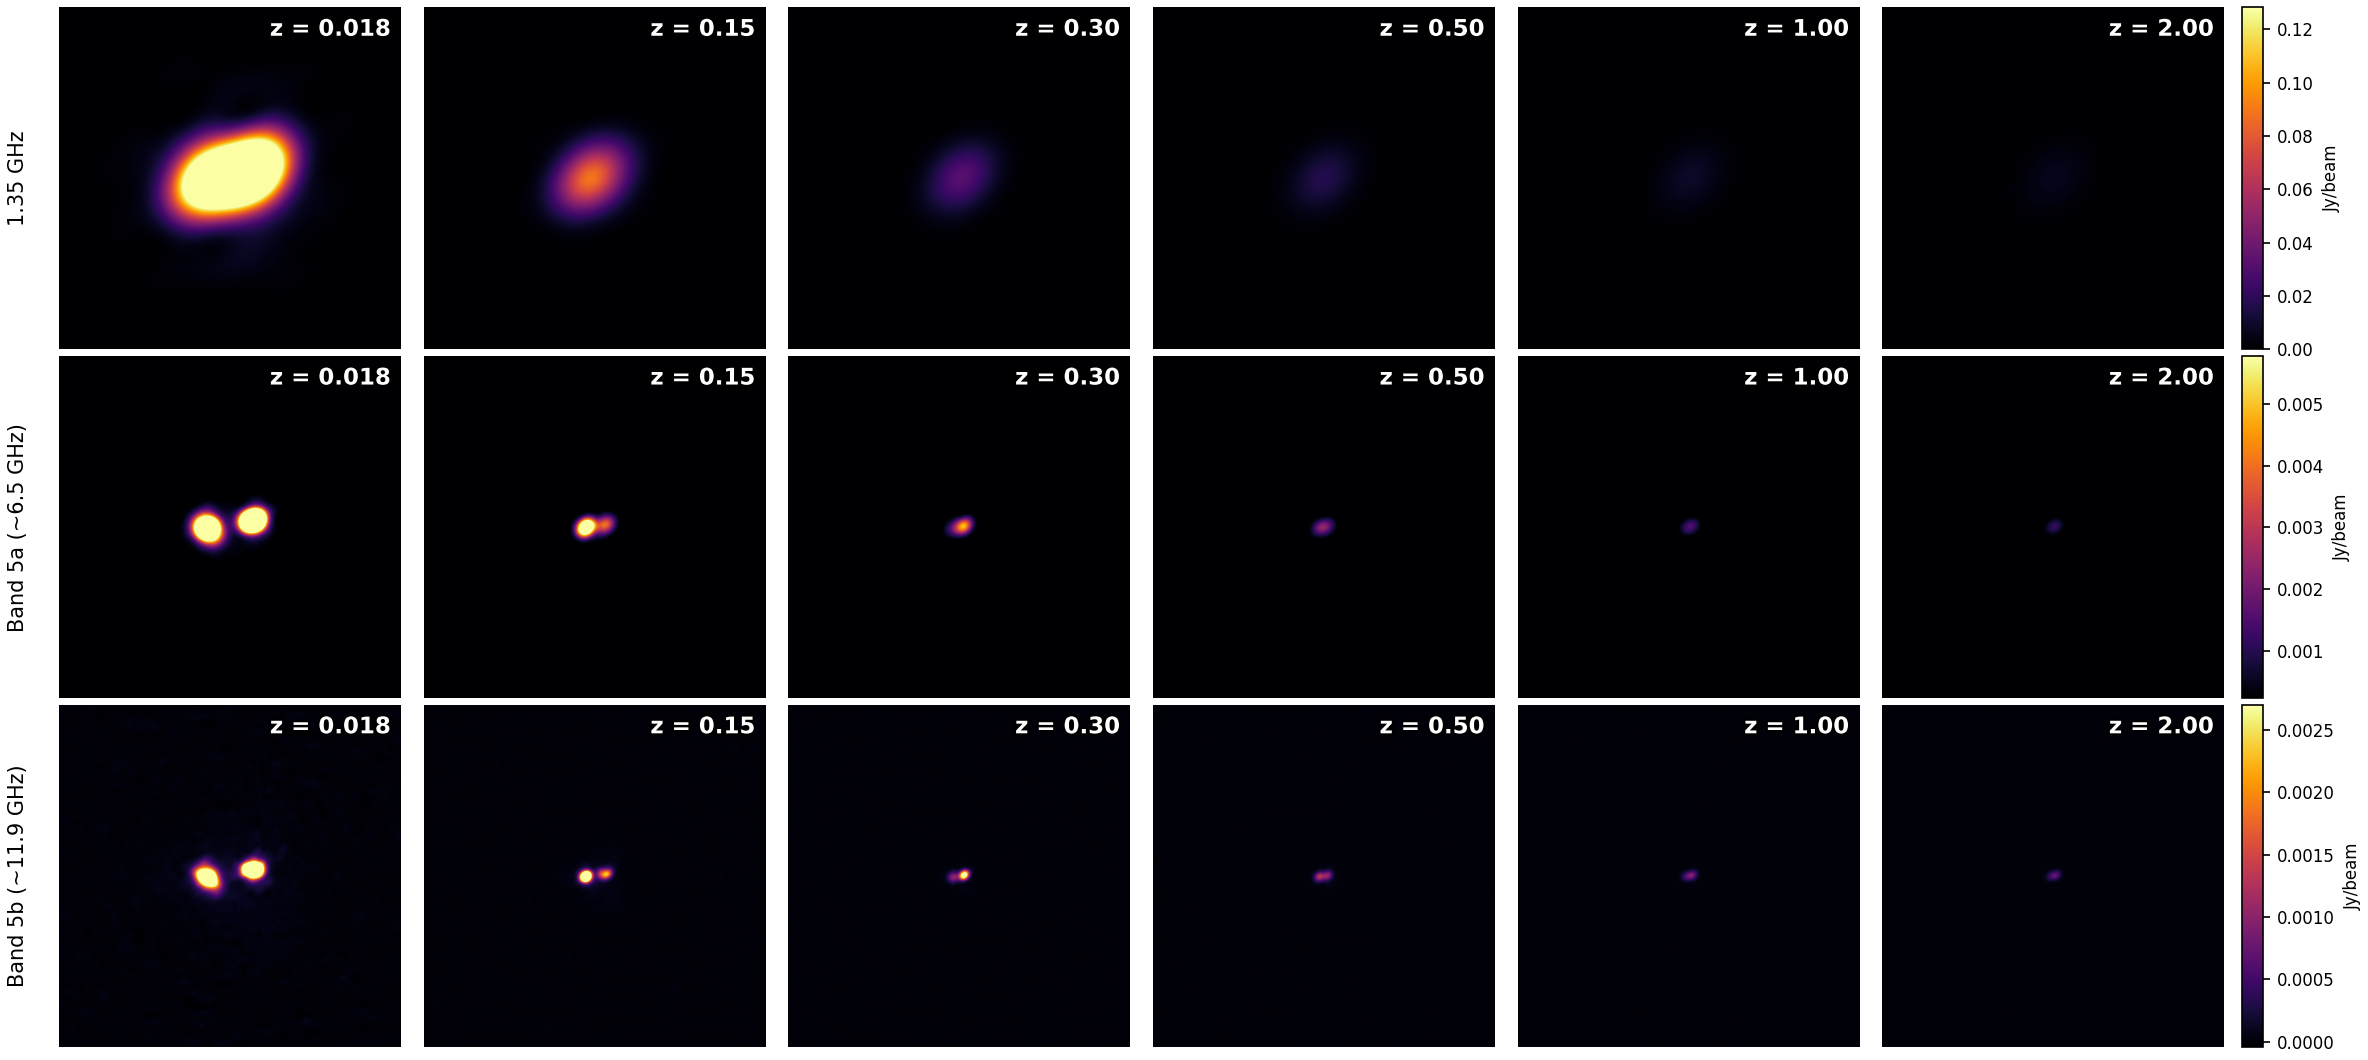
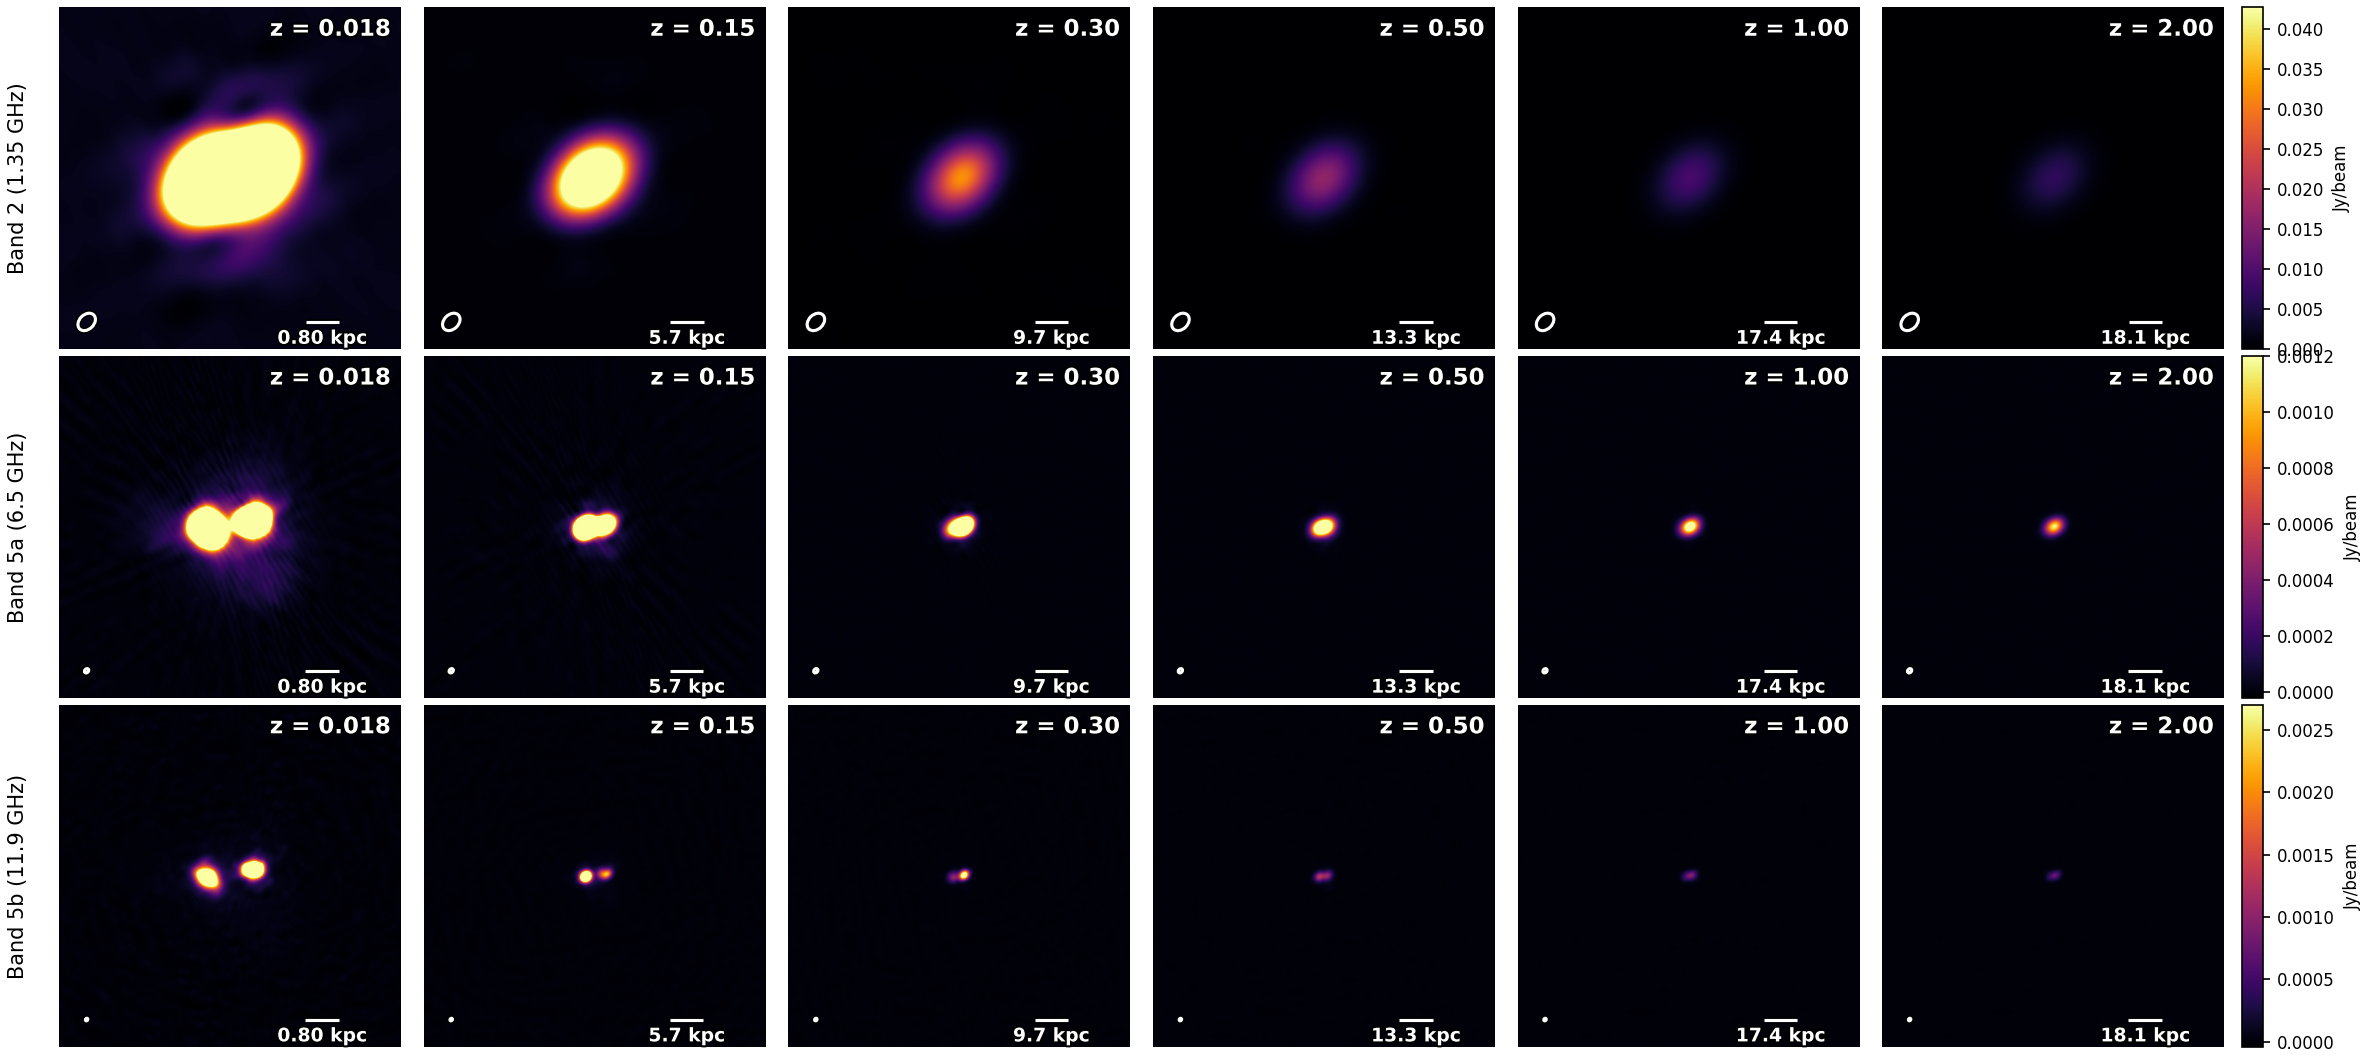
fix: case 4 adjusted

diff --git a/portfolio/case4-redshift-galaxies/index.html b/portfolio/case4-redshift-galaxies/index.html
@@ -293,7 +293,7 @@
                             <dt>Snapshot length</dt>
                             <dd>10 minutes</dd>
                             <dt>Bands</dt>
-                            <dd>1.35, ~6.5 &amp; ~11.9 GHz</dd>
+                            <dd>1.35, 6.5 &amp; 11.9 GHz</dd>
                         </dl>
                     </div>
                     <div class="run-card">